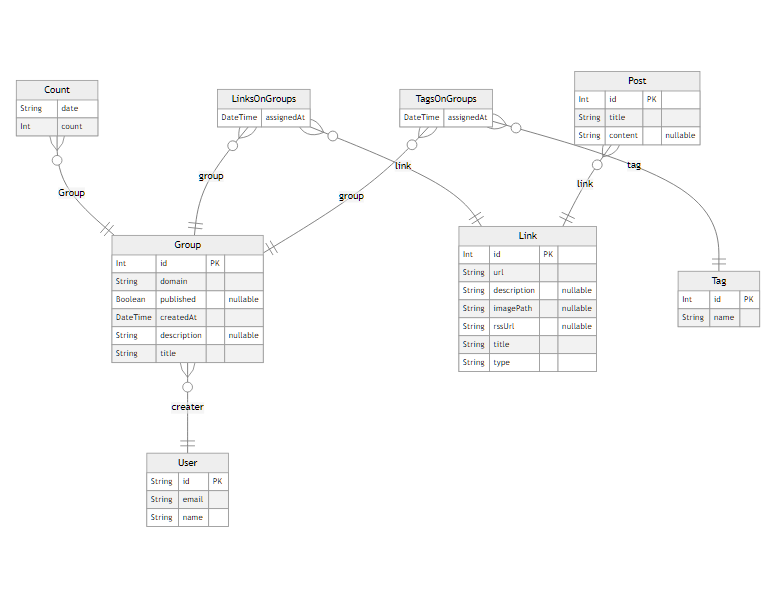
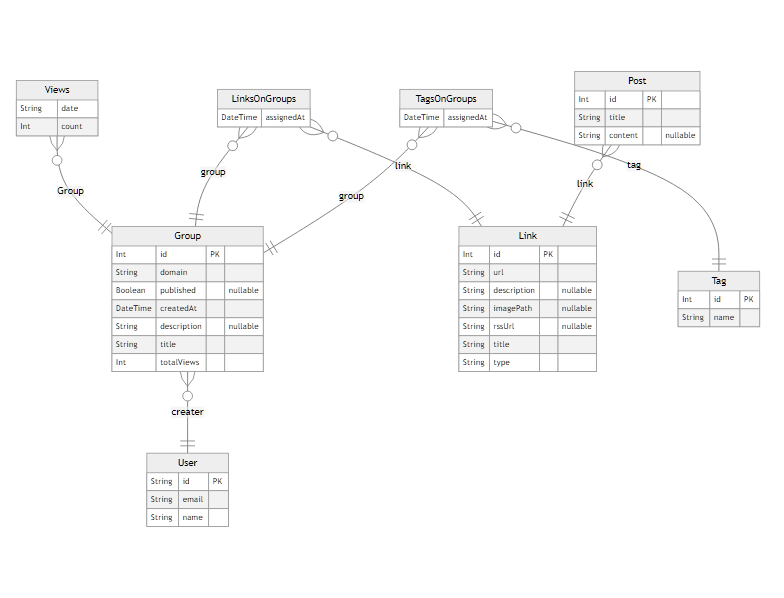
토탈 카운트 처리

diff --git a/src/group/group.service.ts b/src/group/group.service.ts
@@ -1,7 +1,7 @@
 import { ForbiddenException, Injectable } from '@nestjs/common';
 import { Prisma, Group } from '@prisma/client';
 import { PrismaService } from 'src/prisma/prisma.service';
-import { isToday8 } from 'src/plugin/dayjs';
+import { getToday8 } from 'src/plugin/dayjs';
 
 @Injectable()
 export class GroupService {
@@ -22,7 +22,7 @@ export class GroupService {
     return this.prisma.group.findUnique({
       include: {
         links: true,
-        counts: true,
+        counts: { where: { date: getToday8() } },
       },
       where: {
         domain,
@@ -63,14 +63,33 @@ export class GroupService {
     });
   }
 
-  async upsertCount(groupDomain: string) {
-    const date = isToday8();
+  async updateTotalViews(groupDomain: string) {
+    const date = getToday8();
+    try {
+      const { _sum } = await this.prisma.views.aggregate({
+        _sum: { count: true },
+        where: {
+          groupDomain,
+          date: { lt: date },
+        },
+      });
+      await this.prisma.group.update({
+        where: { domain: groupDomain },
+        data: { totalViews: _sum.count || 0 },
+      });
+    } catch (e) {
+      throw new ForbiddenException(e);
+    }
+  }
+
+  async upsertDailyViews(groupDomain: string) {
+    const date = getToday8();
     try {
       const { count = 1 } =
-        (await this.prisma.count.findUnique({
+        (await this.prisma.views.findUnique({
           where: { groupDomain_date: { groupDomain, date } },
         })) || {};
-      return await this.prisma.count.upsert({
+      return await this.prisma.views.upsert({
         where: { groupDomain_date: { groupDomain, date } },
         create: { count: 1, date, Group: { connect: { domain: groupDomain } } },
         update: { count: count + 1 },

diff --git a/src/group/group.controller.ts b/src/group/group.controller.ts
@@ -1,4 +1,4 @@
-import { Controller, Get, Post, Body, Param, Query } from '@nestjs/common';
+import { Controller, Get, Post, Body, Param, Query, Res } from '@nestjs/common';
 import { GroupService } from './group.service';
 import { CreateGroupDto } from './dto/create-group.dto';
 import { ApiTags } from '@nestjs/swagger';
@@ -35,9 +35,7 @@ export class GroupController {
   }
 
   @Get()
-  findAll(@Query() query) {
-    const { tag } = query;
-
+  findAll(@Query() { tag }) {
     return this.groupService.groups({
       where: { tags: { some: { tag: { name: tag } } } },
       orderBy: { createdAt: 'desc' },
@@ -51,7 +49,12 @@ export class GroupController {
 
   @Get(':domain')
   async findOne(@Param('domain') domain: string) {
-    await this.groupService.upsertCount(domain);
-    return await this.groupService.group(domain);
+    await this.groupService.upsertDailyViews(domain);
+    await this.groupService.updateTotalViews(domain);
+
+    const groupData = await this.groupService.group(domain);
+    groupData['dailyViews'] = groupData['counts'][0]['count'];
+    delete groupData['counts'];
+    return groupData;
   }
 }

diff --git a/src/plugin/dayjs.ts b/src/plugin/dayjs.ts
@@ -1,5 +1,5 @@
 import * as dayjs from 'dayjs';
 
-export const isToday8 = () => {
+export const getToday8 = () => {
   return dayjs(new Date()).format('YYYYMMDD');
 };
